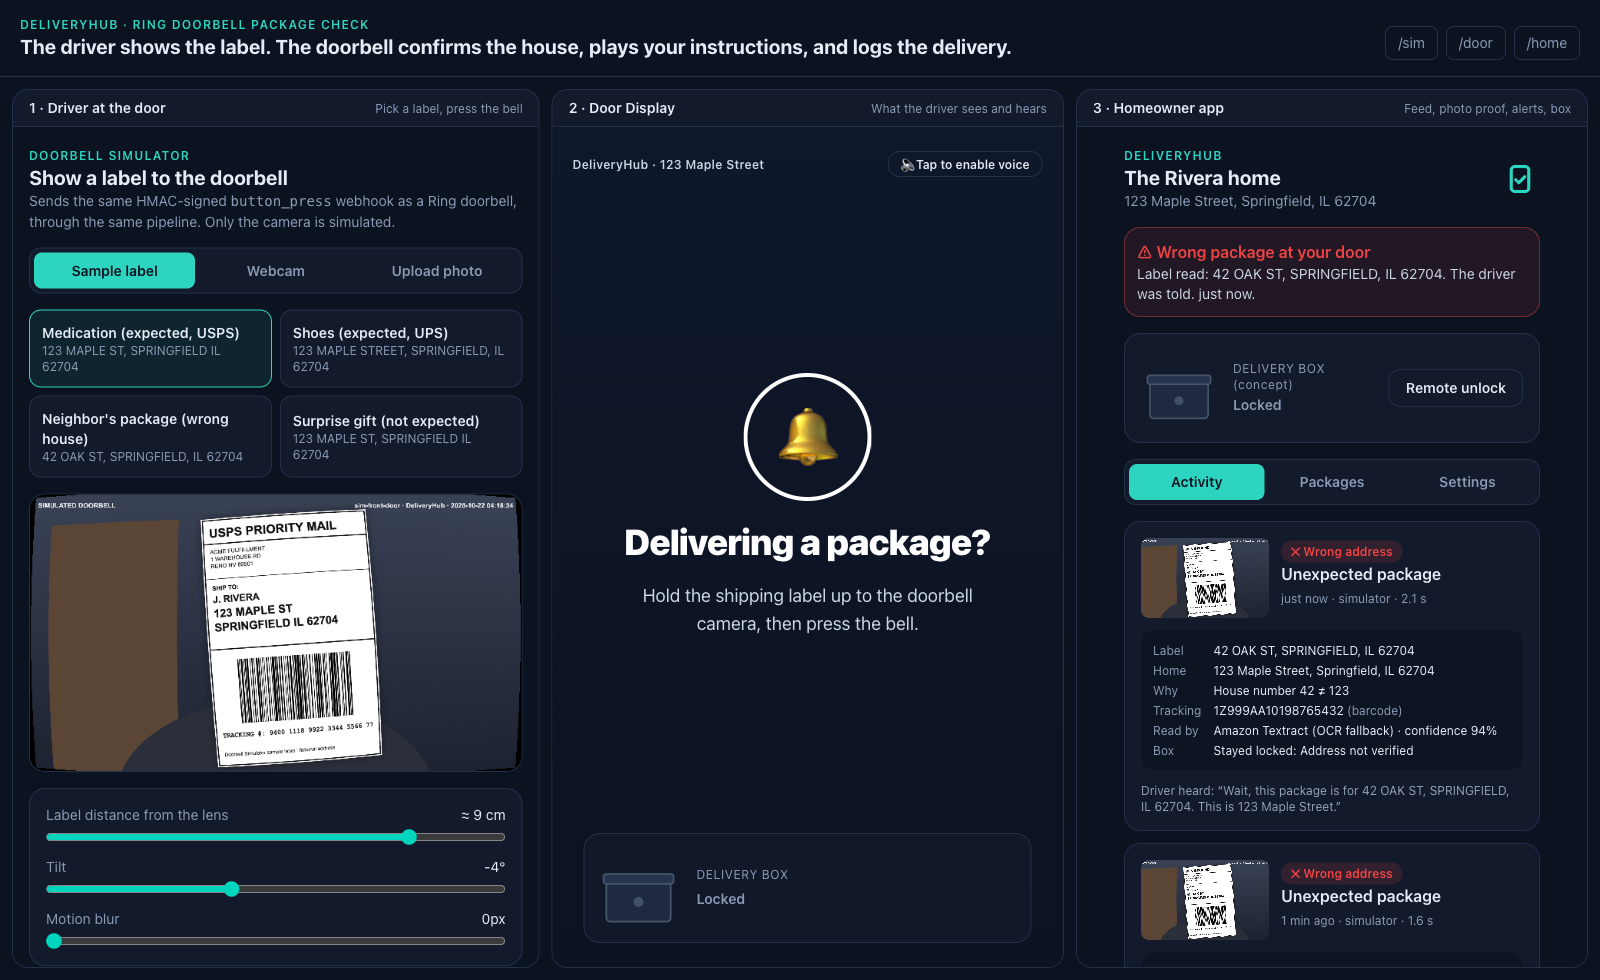
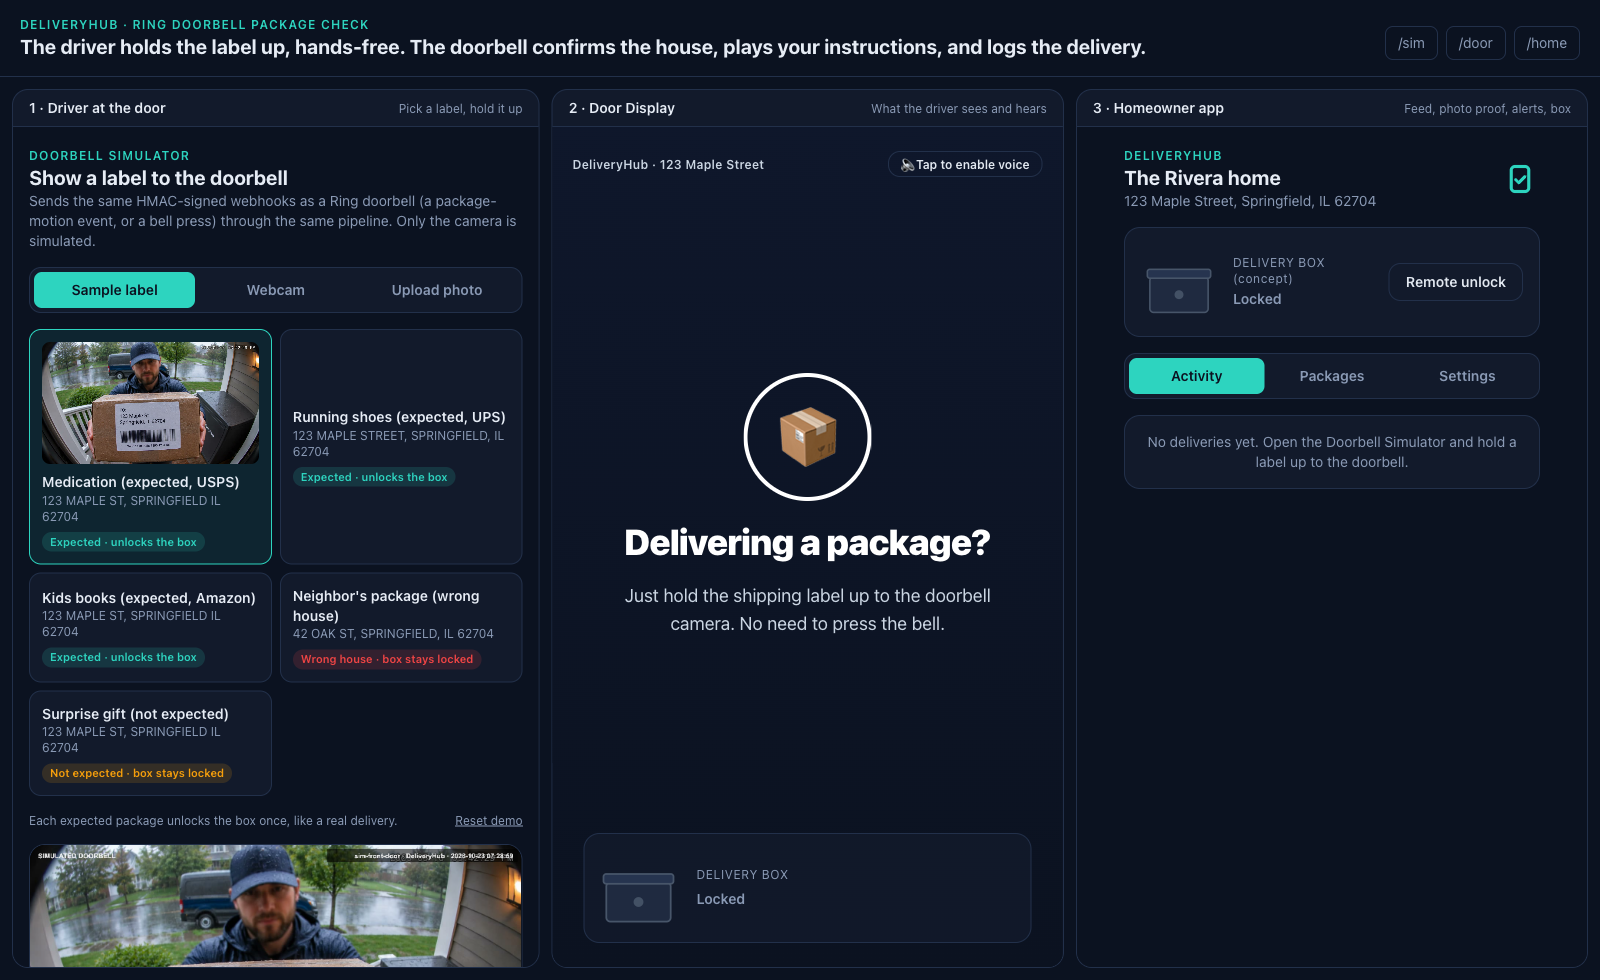
Hands-free everywhere: app copy, Ring link page, diagram, video docs, dashboard label, fresh screenshots
- Door Display idle icon is a parcel (no bell hint); looking state uses a magnifier
- Console/home empty-state/Ring 'Connected' page no longer mention pressing the bell
- Architecture diagram: 'Driver holds label up, hands-free'; PNG re-rendered
- Concept video script + Claude chat brief: driver holds the parcel, no button
- Latency labels: Ring event -> decision; eval note says it ran on bell presses
- Screenshots 0/1/6 retaken

diff --git a/web/src/pages/Home.tsx b/web/src/pages/Home.tsx
@@ -85,7 +85,7 @@ function BoxCard({ box, pkgs, onChange }: { box: Box; pkgs: Package[]; onChange:
 }
 
 function Activity({ scans, pkgById, home }: { scans: Scan[]; pkgById: Map<string, Package>; home: HomeT }) {
-  if (!scans.length) return <Card className="text-center text-sm text-mute">No deliveries yet. Open the Doorbell Simulator and press the bell.</Card>
+  if (!scans.length) return <Card className="text-center text-sm text-mute">No deliveries yet. Open the Doorbell Simulator and hold a label up to the doorbell.</Card>
   return (
     <div className="space-y-3">
       {scans.map((s) => {
@@ -99,7 +99,7 @@ function Activity({ scans, pkgById, home }: { scans: Scan[]; pkgById: Map<string
                 : <div className="grid h-20 w-32 place-items-center rounded-lg bg-black/30 text-xs text-mute">{s.status === 'processing' ? '…' : 'no photo'}</div>}
               <div className="min-w-0 flex-1 space-y-1">
                 <ScanBadge scan={s} />
-                <div className="truncate font-semibold">{pkg?.nickname ?? (!d ? 'Doorbell press' : d.verdict === 'wrong_address' ? 'Not for this house' : d.verdict === 'unreadable' ? 'Label not readable' : d.expected ? 'Package' : 'Unexpected package')}</div>
+                <div className="truncate font-semibold">{pkg?.nickname ?? (!d ? 'Doorbell event' : d.verdict === 'wrong_address' ? 'Not for this house' : d.verdict === 'unreadable' ? 'Label not readable' : d.expected ? 'Package' : 'Unexpected package')}</div>
                 <div className="text-xs text-mute">{timeAgo(s.createdAt)}{s.simulated ? ' · simulator' : ''}{s.latencyMs ? ` · ${(s.latencyMs / 1000).toFixed(1)} s` : ''}</div>
               </div>
             </div>

diff --git a/web/src/pages/Console.tsx b/web/src/pages/Console.tsx
@@ -2,7 +2,7 @@
 import { Link } from 'react-router-dom'
 
 const panes = [
-  { path: '/sim', title: '1 · Driver at the door', note: 'Pick a label, press the bell', w: 'lg:w-[34%]' },
+  { path: '/sim', title: '1 · Driver at the door', note: 'Pick a label, hold it up', w: 'lg:w-[34%]' },
   { path: '/door', title: '2 · Door Display', note: 'What the driver sees and hears', w: 'lg:w-[33%]' },
   { path: '/home', title: '3 · Homeowner app', note: 'Feed, photo proof, alerts, box', w: 'lg:w-[33%]' },
 ]
@@ -13,7 +13,7 @@ export default function Console() {
       <header className="flex flex-wrap items-end justify-between gap-3 border-b border-line px-5 py-4">
         <div>
           <div className="text-xs font-semibold uppercase tracking-widest text-accent">DeliveryHub · Ring doorbell package check</div>
-          <h1 className="text-lg font-bold sm:text-xl">The driver shows the label. The doorbell confirms the house, plays your instructions, and logs the delivery.</h1>
+          <h1 className="text-lg font-bold sm:text-xl">The driver holds the label up, hands-free. The doorbell confirms the house, plays your instructions, and logs the delivery.</h1>
         </div>
         <div className="flex gap-2 text-sm">
           {panes.map((p) => <Link key={p.path} to={p.path} className="rounded-lg border border-line px-3 py-1.5 text-mute hover:text-white">{p.path}</Link>)}

diff --git a/web/src/pages/Door.tsx b/web/src/pages/Door.tsx
@@ -34,9 +34,9 @@ export default function Door() {
     : fresh.status === 'processing' ? (fresh.trigger === 'motion_detected' ? 'looking' : 'reading')
     : fresh.status === 'error' ? 'retry' : d!.verdict
   const theme = {
-    idle: { bg: 'from-slate-900 to-ink', icon: '🔔', title: 'Delivering a package?', color: 'text-white' },
+    idle: { bg: 'from-slate-900 to-ink', icon: '📦', title: 'Delivering a package?', color: 'text-white' },
     reading: { bg: 'from-teal-950 to-ink', icon: '⏳', title: 'Reading the label…', color: 'text-accent' },
-    looking: { bg: 'from-teal-950 to-ink', icon: '📦', title: 'Hold the label up to the camera', color: 'text-accent' },
+    looking: { bg: 'from-teal-950 to-ink', icon: '🔍', title: 'Hold the label up to the camera', color: 'text-accent' },
     right_address: { bg: 'from-green-950 to-ink', icon: '✓', title: 'Right address', color: 'text-ok' },
     wrong_address: { bg: 'from-red-950 to-ink', icon: '✕', title: 'Wrong address', color: 'text-bad' },
     unreadable: { bg: 'from-amber-950 to-ink', icon: '↻', title: 'Please try again', color: 'text-warn' },

diff --git a/web/src/pages/Eval.tsx b/web/src/pages/Eval.tsx
@@ -92,7 +92,7 @@ export default function Eval() {
           <div className="grid grid-cols-2 gap-3 sm:grid-cols-4">
             <Stat k="Correct decision" v={pct(correct, rows.length)} />
             <Stat k="Wrong decision" v={`${wrong}`} sub="right↔wrong house swaps" />
-            <Stat k="Latency p50" v={`${(quantile(server, 0.5) / 1000).toFixed(1)} s`} sub="press → decision" />
+            <Stat k="Latency p50" v={`${(quantile(server, 0.5) / 1000).toFixed(1)} s`} sub="Ring event → decision" />
             <Stat k="Latency p90" v={`${(quantile(server, 0.9) / 1000).toFixed(1)} s`} />
           </div>
           {(['cm', 'blur', 'tilt', 'label'] as const).map((k) => (

diff --git a/web/src/pages/Sim.tsx b/web/src/pages/Sim.tsx
@@ -9,7 +9,7 @@ type Source = 'label' | 'webcam' | 'upload'
 
 const norm = (t: string) => t.toUpperCase().replace(/[^0-9A-Z]/g, '')
 
-/** What pressing the bell with this label will do right now, given the homeowner's live package list. */
+/** What showing this label to the doorbell will do right now, given the homeowner's live package list. */
 function labelOutcome(l: SampleLabel, packages: Package[] | undefined): { text: string; cls: string } {
   if (l.kind === 'wrong_house') return { text: 'Wrong house · box stays locked', cls: 'bg-bad/15 text-bad' }
   const pkg = packages?.find((p) => norm(l.barcode).includes(norm(p.trackingNumber)))

diff --git a/backend/src/handlers/ringAuth.ts b/backend/src/handlers/ringAuth.ts
@@ -102,7 +102,7 @@ async function linkSubmit(event: APIGatewayProxyEventV2): Promise<APIGatewayProx
   return html(200, `
     <h1>✓ Connected</h1>
     <p>DeliveryHub is now linked to your Ring account (${devices.length} device${devices.length === 1 ? '' : 's'}).</p>
-    <p class="mute">Next time a driver shows a label to your doorbell and presses the bell, DeliveryHub will check it.</p>
+    <p class="mute">Next time a driver holds a label up to your doorbell, DeliveryHub will check it. No button needed.</p>
     <a class="btn" href="/home">Open DeliveryHub</a>`)
 }
 

diff --git a/docs/CONCEPT_VIDEO_SCRIPT.md b/docs/CONCEPT_VIDEO_SCRIPT.md
@@ -25,12 +25,12 @@
 |---|---|---|---|---|
 | 1 | 0:00–0:06 | Rainy porch, wide shot. A parcel sits soaked on the step. Cut to a phone notification: "Package delivered". The homeowner frowns: *which* one? | Rain. Notification ping. | — |
 | 2 | 0:06–0:12 | A different day, sunny. Priya at her office desk opens DeliveryHub and adds "Mom's medication" with the instruction *"This is medication. Please put it in the cooler box."* | **VO (Priya):** "I know what I'm expecting. I just need the doorbell to know too." | "Expected: Mom's medication" |
-| 3 | 0:12–0:20 | The delivery van pulls up. The driver walks to the door, sees a small sticker next to the doorbell: *"Delivering? Show the label, then ring."* | Footsteps. | — |
-| 4 | 0:20–0:27 | **Close-up:** the driver holds the label about a hand's width from the doorbell lens and presses the bell. Cut to the camera's POV (fisheye frame, label filling it). | Doorbell chime. | "Show the label. Press the bell." |
+| 3 | 0:12–0:20 | The delivery van pulls up. The driver walks to the door, sees a small sticker next to the doorbell: *"Delivering? Just show the label to the camera."* | Footsteps. | — |
+| 4 | 0:20–0:27 | **Close-up:** the driver, both hands on the parcel, simply holds the label about a hand's width from the doorbell lens. No button. Cut to the camera's POV (fisheye frame, label filling it). | Soft chime from the Door Display. | "Just hold the label up. Hands-free." |
 | 5 | 0:27–0:35 | Door Display turns **green ✓ "Right address"**. The Delivery Box light turns **teal** with an audible *click* (unlocked). | **Door voice (Polly):** "Thanks, this is the right address. This is medication. Please put it in the cooler box. The delivery box is open for you." | "✓ Right house · Box unlocked for 60 s" + "Concept" |
 | 6 | 0:35–0:42 | The driver lifts the lid, places the medication parcel inside and closes the lid. The light turns **green**, *clunk* (locked). The driver walks away. | Lid thud, lock clunk. | "Package in. Box locked." |
 | 7 | 0:42–0:47 | Priya glances at the DeliveryHub app: **"Mom's medication: Secured in box"** with the doorbell photo. She smiles and goes back to work. | — | "Secured in box · photo proof" |
-| 8 | 0:47–0:55 | Same driver, second parcel ("42 Oak St"). Shows the label, presses the bell. The Door Display turns **red ✕**. The box light stays **white**: no click. The driver checks the label, nods, and walks next door. | **Door voice:** "Wait, this package is for 42 Oak Street. This is 123 Maple Street." | "✕ Wrong house · Box stays locked" |
+| 8 | 0:47–0:55 | Same driver, second parcel ("42 Oak St"). Holds the label up. The Door Display turns **red ✕**. The box light stays **white**: no click. The driver checks the label, nods, and walks next door. | **Door voice:** "Wait, this package is for 42 Oak Street. This is 123 Maple Street." | "✕ Wrong house · Box stays locked" |
 | 9 | 0:55–1:03 | Evening. A hooded stranger walks up and tugs the box lid. The light flashes **red**. Cut to the DeliveryHub app on Priya's phone: the red banner **"Delivery box opened without a verified delivery"**. The stranger leaves. | Tug, alarm chirp. | "No verified label → no unlock" |
 | 10 | 1:03–1:10 | Priya at home in the evening taps "Remote unlock" for an unexpected gift a neighbor left, then gets her packages out of the box. | **VO (Priya):** "Unexpected packages? I decide." | "Human in the loop" |
 | 11 | 1:10–1:15 | End card: the DeliveryHub logo over the porch. | **VO:** "DeliveryHub for Ring. Ring knows a package is there. DeliveryHub knows which one, and whether it belongs here." | "DeliveryHub for Ring · built on the Ring API + AWS" |
@@ -59,7 +59,7 @@ You can show every state on screen with the live app: run `/sim` → `/door` (Li
 
 - **Shot 1:** "Rainy suburban front porch, a cardboard parcel getting soaked on the step, overcast light, handheld, cinematic, 16:9"
 - **Shot 3:** "Delivery driver in a plain navy uniform without logos walks up a sunny suburban path to a front door holding two parcels, medium shot, natural light"
-- **Shot 4:** "Close-up: a hand holds a shipping label about 10 cm from a small video doorbell camera, then presses the doorbell button, shallow depth of field"
+- **Shot 4:** "Close-up: a delivery driver holds a parcel with both hands, its shipping label about 10 cm from a small video doorbell camera, shallow depth of field"
 - **Shot 6:** "A driver lifts the lid of a grey weatherproof parcel box beside a front door, places a small parcel inside and closes the lid; a small status light on the box turns green; daytime"
 - **Shot 8:** "Delivery driver looks at a parcel label, shakes head slightly, and walks toward the neighbouring house, suburban street, daytime"
 - **Shot 9:** "Evening porch, a hooded stranger tugs at the lid of a locked grey parcel box, a small red light flashes on the box, the stranger walks away, security-camera angle"
@@ -73,7 +73,7 @@ You can show every state on screen with the live app: run `/sim` → `/door` (Li
 | Time | Shot | VO / sound |
 |---|---|---|
 | 0:00–0:04 | Shot 1 (soaked parcel) | "Ring knows *a* package is here. Not *which* one." |
-| 0:04–0:10 | Shot 4 (label to the doorbell, press) | Doorbell chime |
+| 0:04–0:10 | Shot 4 (label held up to the doorbell, hands-free) | Soft chime |
 | 0:10–0:16 | Shot 5 + 6 (green ✓, box unlocks, parcel in, box locks) | Polly: "…This is medication. Please put it in the cooler box. The delivery box is open for you." |
 | 0:16–0:21 | Shot 8 (red ✕, box stays locked) | Polly: "Wait, this package is for 42 Oak Street." |
 | 0:21–0:25 | Shot 7 (phone: Secured in box) → cut to the live demo console | "This is DeliveryHub for Ring. Here's how it works." |

diff --git a/docs/CLAUDE_CHAT_VIDEO_BRIEF.md b/docs/CLAUDE_CHAT_VIDEO_BRIEF.md
@@ -13,7 +13,7 @@ You are producing a **short concept video (36–38 seconds, 16:9)** with the Hig
 
 ## The idea (what the video must communicate)
 
-**DeliveryHub for Ring** is an app for Ring video doorbells. Today Ring knows that *a* package is at the door, but not *which* one, or whether it was even meant for this house. With DeliveryHub, the delivery driver holds the shipping label up to the doorbell camera and presses the bell. Within about 2 seconds the system reads the label and:
+**DeliveryHub for Ring** is an app for Ring video doorbells. Today Ring knows that *a* package is at the door, but not *which* one, or whether it was even meant for this house. With DeliveryHub, the delivery driver just holds the shipping label up to the doorbell camera, hands-free (no button: his hands are full). Within a few seconds the system reads the label and:
 - **Right house, expected package:** a small screen by the door turns green and speaks the homeowner's instruction for that package ("This is medication, please put it in the cooler box"). A lockable **Delivery Box** next to the door unlocks for 60 seconds. The driver puts the parcel in and closes the lid, and the box locks. The homeowner's app shows "Package secured" with a photo.
 - **Wrong house:** the screen turns red ("Wait, this package is for 42 Oak St"). The box stays locked, and the driver takes the parcel next door.
 - **Thief:** someone pulls the box lid without a verified delivery. It stays shut, its light flashes red, and the homeowner gets an alert.
@@ -62,7 +62,7 @@ Show me R1–R3 and wait for my OK. Regenerate any I reject.
 | Shot | Attach | Prompt (STYLE + needed CAST + this) |
 |---|---|---|
 | F1 | R1 | `The same porch as the reference, but overcast and raining; a soggy cardboard parcel sits on the bottom step; wet boards and puddles; no people.` |
-| F2 | R1, R2 | `Close-up: the DRIVER's hand holds a white shipping label about 10 cm in front of the DOORBELL's camera lens; his other index finger is about to press the glowing button; navy door behind.` |
+| F2 | R1, R2 | `Close-up: the DRIVER holds a cardboard parcel with both hands, its white shipping label about 10 cm in front of the DOORBELL's camera lens; navy door behind.` |
 | F3 | R1, R2, R3 | `The DRIVER on the porch lifting the hinged lid of the BOX with one hand, holding a small cardboard parcel with a blue sticker in the other; the box status light glows teal.` |
 | F4 | R1, R2, R3 | `The DRIVER on the porch reading a parcel label with a slightly puzzled expression; the BOX beside him with its status light white; the neighbouring house visible across the lawn.` |
 | F5 | R1, R3 | `Evening on the same porch, warm porch light on, a person in a dark hoodie with their face hidden pulling at the closed lid of the BOX; the status light glows red; high security-camera angle from above the door.` |
@@ -77,7 +77,7 @@ For generated shots, use the start frame as `start_image` and attach the same re
 | Clip | start_image | refs | Motion prompt |
 |---|---|---|---|
 | V1 | F1 | R1 | `Steady rain falls on the porch and the soaked parcel; slow gentle push-in toward the parcel; nothing else moves.` |
-| V2 | F2 | R1, R2 | `The hand holds the label steady in front of the camera lens, then the index finger presses the doorbell button and the button glows brighter. Static close-up.` |
+| V2 | F2 | R1, R2 | `The driver holds the parcel with both hands, label steady in front of the camera lens; the doorbell's ring light glows softly as it reads the label. Static close-up.` |
 | V3 | **attached screenshot `2-door-right-address.png`** | none | `Subtle slow push-in on this screen; the green check mark gently pulses once. Keep all text and UI exactly as in the image, do not add or change any text.` |
 | V4 | F3 | R1, R2, R3 | `He lowers the parcel into the box and closes the lid; the status light on the box changes from teal to green. Static medium shot.` |
 | V5 | **attached screenshot `3-door-wrong-address.png`** | none | `Subtle slow push-in on this screen; the red X gently pulses once. Keep all text and UI exactly as in the image, do not add or change any text.` |
@@ -95,7 +95,7 @@ Give me a table with **every final asset URL** (R1–R3, F1–F6, V1–V7) and i
 | Time | Asset | Caption | Sound (added later) |
 |---|---|---|---|
 | 0:00–0:04 | V1 | "Ring knows *a* package is here. Not *which* one." | rain |
-| 0:04–0:08 | V2 | "Show the label. Press the bell." | doorbell chime |
+| 0:04–0:08 | V2 | "Just hold the label up. Hands-free." | soft chime |
 | 0:08–0:12 | V3 | "✓ Right house: your instruction, spoken" | real app voice: "…This is medication. Please put it in the cooler box." |
 | 0:12–0:17 | V4 | "Box unlocks → parcel in → box locks" · tag "Concept" | lock click |
 | 0:17–0:20 | screenshot `4-homeowner-feed.png` (still, slow zoom in the edit) | "Package secured, with photo proof" | soft ping |

diff --git a/docs/DEVPOST_STORY.md b/docs/DEVPOST_STORY.md
@@ -59,7 +59,7 @@ Other friction: there's no doorbell-speaker API (we built the Door Display), no 
 
 ## Accomplishments we're proud of
 
-- **120-press live eval** (real signed webhooks through the deployed stack, simulated optics): **95% correct, 5% "please hold it closer", 0 wrong decisions, 0 false confirmations**. Press → decision in **1.9 s p50 / 2.4 s p90**. [Details](https://github.com/oleg-litvinov/deliveryhub/blob/main/docs/EVAL.md), and anyone can rerun it at https://dgnb2hmunowzj.cloudfront.net/eval.
+- **120-press live eval** (real signed webhooks through the deployed stack, simulated optics; run with bell-press events, while hands-free motion events use the same reading pipeline): **95% correct, 5% "please hold it closer", 0 wrong decisions, 0 false confirmations**. Press → decision in **1.9 s p50 / 2.4 s p90**. [Details](https://github.com/oleg-litvinov/deliveryhub/blob/main/docs/EVAL.md), and anyone can rerun it at https://dgnb2hmunowzj.cloudfront.net/eval.
 - **100% correct out to ≈ 12 cm** from the lens, even with tilt and motion blur.
 
 - **Zero false confirmations:** a neighbor's package has never been confirmed as ours in any eval run.

diff --git a/docs/DEVPOST_DRAFT.md b/docs/DEVPOST_DRAFT.md
@@ -70,7 +70,7 @@ Other friction: there's no doorbell-speaker API (we built the Door Display), no 
 
 ## Accomplishments we're proud of
 
-- **120-press live eval** (real signed webhooks through the deployed stack, simulated optics): **95% correct, 5% "please hold it closer", 0 wrong decisions, 0 false confirmations**. Press → decision in **1.9 s p50 / 2.4 s p90**. [Details](EVAL.md), and anyone can rerun it at `/eval`.
+- **120-press live eval** (real signed webhooks through the deployed stack, simulated optics; run with bell-press events, while hands-free motion events use the same reading pipeline): **95% correct, 5% "please hold it closer", 0 wrong decisions, 0 false confirmations**. Press → decision in **1.9 s p50 / 2.4 s p90**. [Details](EVAL.md), and anyone can rerun it at `/eval`.
 - **100% correct out to ≈ 12 cm** from the lens, even with tilt and motion blur.
 
 - **Zero false confirmations:** a neighbor's package has never been confirmed as ours in any eval run.
